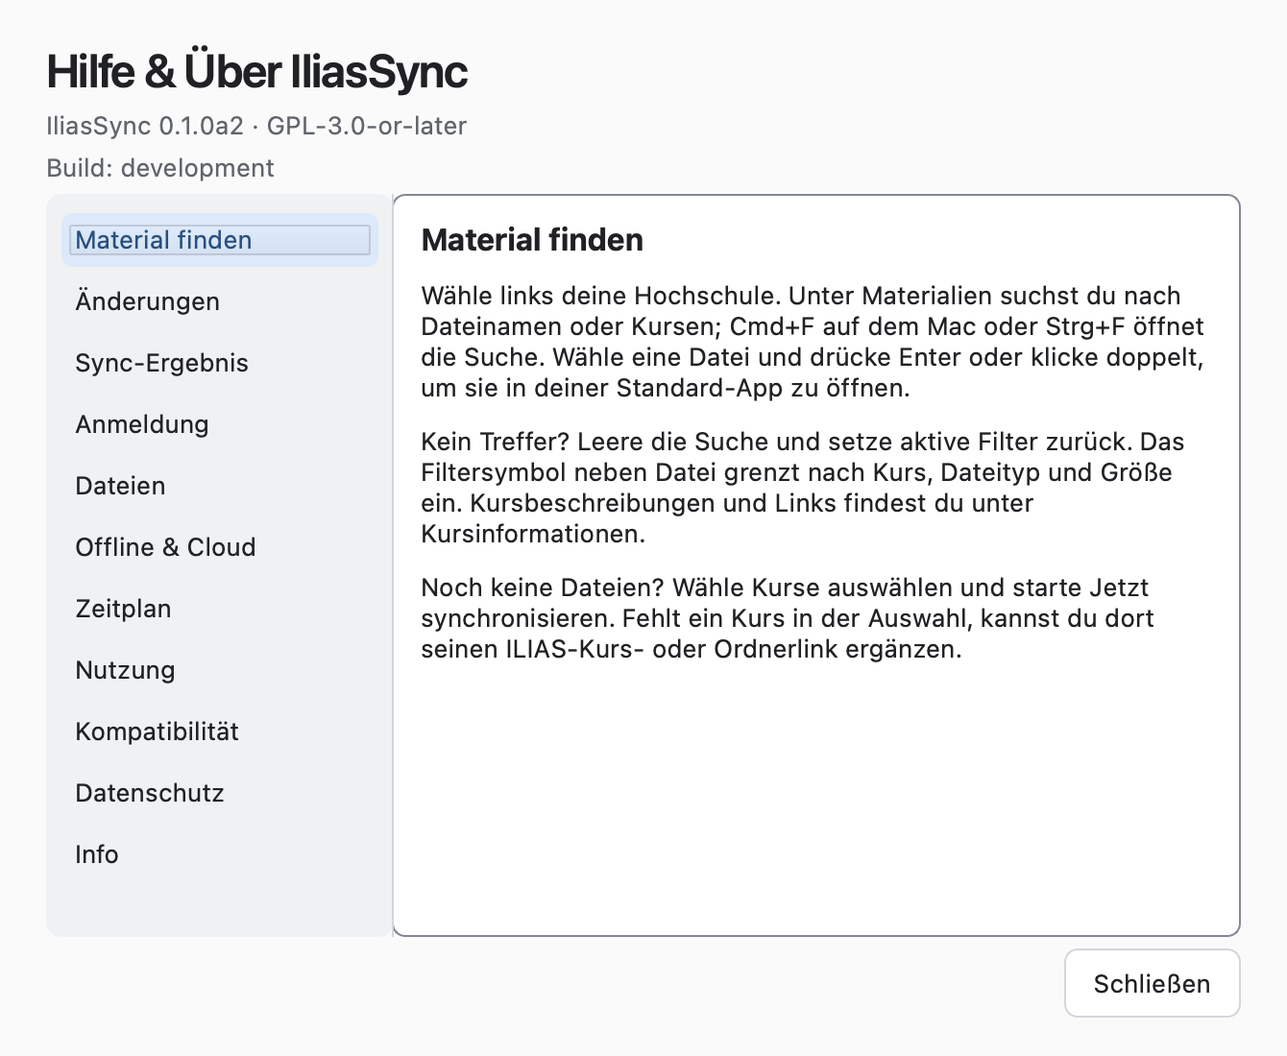
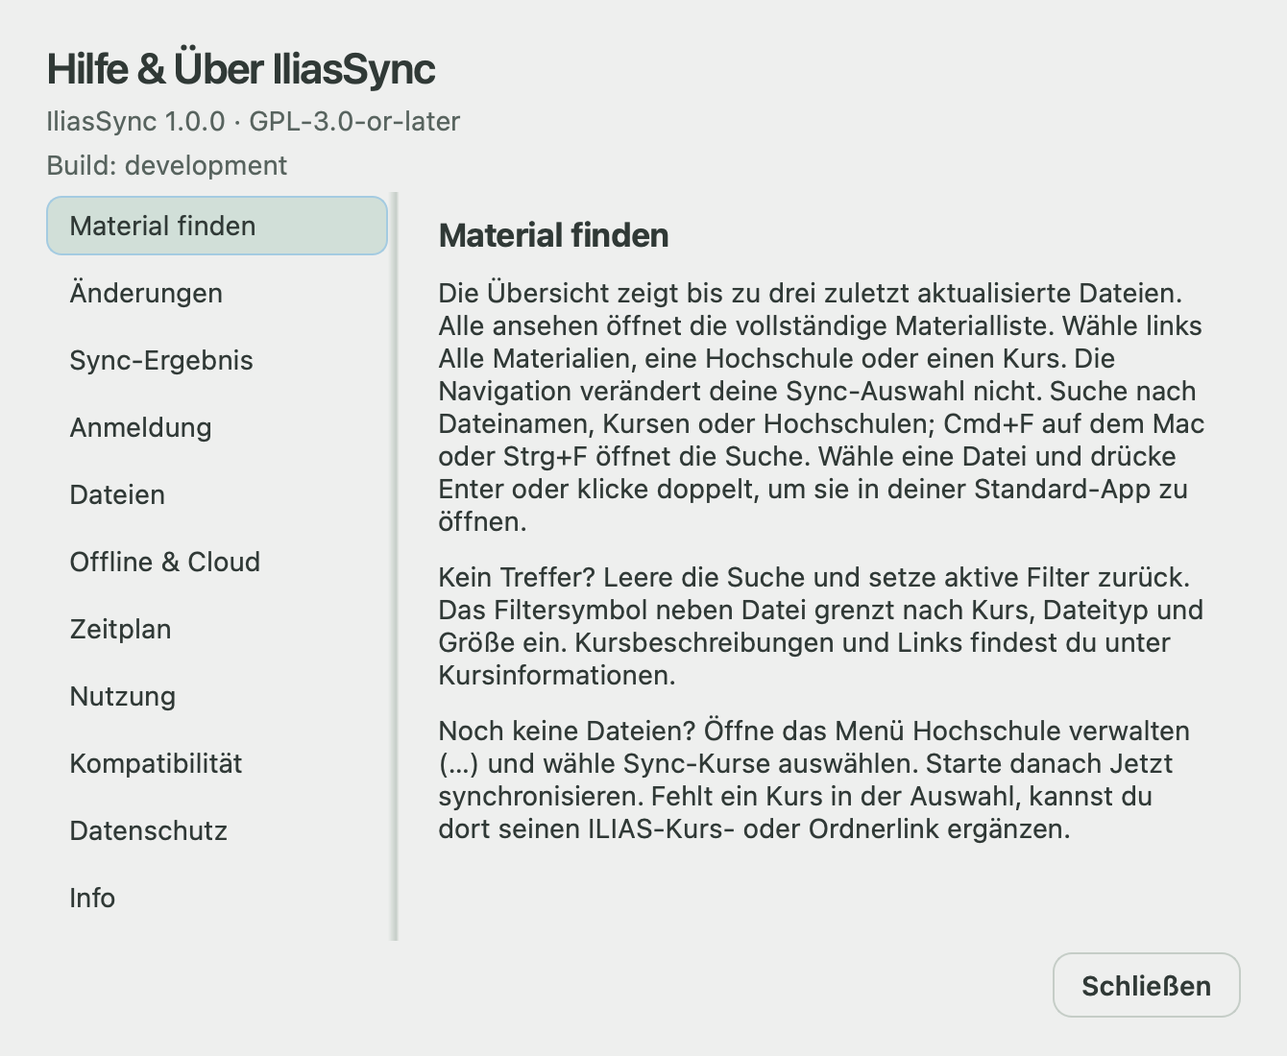
Refresh public project documentation and product screenshots for 1.0.0

Changed region(s): [[0.0306, 0.0309, 0.9485, 0.8964], [0.8261, 0.8964, 0.9485, 0.9582]]

diff --git a/scripts/capture_product.py b/scripts/capture_product.py
@@ -10,8 +10,9 @@ os.environ.setdefault("QT_SCALE_FACTOR", "2")
 
 def main():
     from PySide6.QtWidgets import QApplication
+    from PySide6.QtGui import QFontDatabase
     from ilias_sync.branding import app_icon
-    from ilias_sync.gui import MainWindow, FolderMappingDialog, SourceDialog, HelpDialog
+    from ilias_sync.gui import MainWindow, FolderMappingDialog, SourceDialog, HelpDialog, SettingsDialog
     from ilias_sync.storage import Settings, Source, data_dir, write_json, source_scope
     from ilias_sync.theme import Theme
     output = Path(__file__).resolve().parents[1] / "docs/images"
@@ -34,11 +35,13 @@ def main():
                  ("LDS/Übungen/Blatt 01.pdf", "crs-3/Übungen/Blatt 01.pdf", "crs-3", 180000)]
         write_json(state / "manifest.json", {"schema": 1, "files": {
             f"file:{index}": {"path": path, "logical": logical, "course_id": course,
-                              "target_stat": [size], "size": size}
+                              "target_stat": [size], "size": size, "changed_at": time.time() - index * 3600, "change": "added",
+                              "course_name": next(c["name"] for c in courses if c["id"] == course)}
             for index, (path, logical, course, size) in enumerate(names)}})
         write_json(state / "status.json", {"state": "Up to date", "scope": source_scope(source), "finished": time.time(), "result": {
-            "files": 5, "skipped": {}, "warnings": 0, "errors": 0, "unavailable": 0}})
+            "files": 5, "counts": {"added": 5}, "material_counts": {"added": 5}, "skipped": {}, "warnings": 0, "errors": 0, "unavailable": 0}})
         app = QApplication([])
+        app.setFont(QFontDatabase.systemFont(QFontDatabase.SystemFont.GeneralFont))
         app.setWindowIcon(app_icon())
         app.theme = Theme(app, "light")
         window = MainWindow()
@@ -53,6 +56,14 @@ def main():
         capture(window, "app-light.png")
         app.theme.set_mode("dark")
         capture(window, "app-dark.png")
+        window.workspace_tabs.setCurrentIndex(1)
+        capture(window, "materials.png")
+        window.workspace_tabs.setCurrentIndex(0)
+        settings.value.update(scheduled=True, schedule_mode="weekly", weekly_times={"0":["09:00","16:30"],"1":["13:00"],"2":["09:00","16:30"],"3":["13:00"],"4":["10:00"],"5":[],"6":[]})
+        schedule = SettingsDialog(settings)
+        schedule.tabs.setCurrentIndex(1)
+        capture(schedule, "schedule.png")
+        schedule.reject()
         app.theme.set_mode("light")
         mapping = FolderMappingDialog(source, settings)
         mapping.tree.expandAll()

diff --git a/README.md b/README.md
@@ -1,90 +1,99 @@
 <div align="center">
-  <img src="docs/images/icon.svg" width="80" height="80" alt="IliasSync">
+  <img src="docs/images/icon.svg" width="88" height="88" alt="IliasSync">
   <h1>IliasSync</h1>
-  <p><strong>Deine ILIAS-Kursdateien. Lokal gespeichert. Automatisch aktuell.</strong></p>
-  <p>Für macOS, Windows und Linux. Mit deinen Ordnern und deinem Zeitplan.</p>
+  <p><strong>Dein Studium. Deine Dateien. Automatisch auf deinem Computer.</strong></p>
+  <p>Eine ruhige Desktop-App für ILIAS-Materialien – auf macOS, Windows und Linux.</p>
+  <p>
+    <a href="https://github.com/schroedernils/ilias-sync/releases/latest">Herunterladen</a> ·
+    <a href="#schnellstart">Schnellstart</a> ·
+    <a href="docs/INSTALLATION.md">Installation</a> ·
+    <a href="https://github.com/schroedernils/ilias-sync/issues/new/choose">Hilfe & Feedback</a>
+  </p>
+  <p>
+    <a href="https://github.com/schroedernils/ilias-sync/releases/latest"><img src="https://img.shields.io/github/v/release/schroedernils/ilias-sync?color=497b96&label=Release" alt="Aktuelles Release"></a>
+    <a href="https://github.com/schroedernils/ilias-sync/actions/workflows/build.yml"><img src="https://github.com/schroedernils/ilias-sync/actions/workflows/build.yml/badge.svg" alt="Tests und native Pakete"></a>
+    <a href="LICENSE"><img src="https://img.shields.io/badge/Lizenz-GPL--3.0--or--later-59665f" alt="GPL-3.0-or-later"></a>
+  </p>
 </div>
 
 <picture>
   <source media="(prefers-color-scheme: dark)" srcset="docs/images/app-dark.png">
-  <img src="docs/images/app-light.png" alt="IliasSync zeigt lokal gespeicherte Skripte und Übungsblätter sowie die Auswahl von Kursen und Ordnern.">
+  <img src="docs/images/app-light.png" alt="IliasSync mit Hochschul- und Kursnavigation, drei zuletzt aktualisierten Materialien und gemeinsamem Synchronisierungsbereich.">
 </picture>
+<p align="center"><sub>Aktuelle Produktoberfläche mit synthetischen Beispieldaten. Keine privaten Konten oder Kursunterlagen.</sub></p>
 
-<p align="center"><sub>Synthetische Ansicht des lokalen Entwicklungsstands vom 28.10.2026; kein Screenshot des veröffentlichten Alpha-2-Pakets.</sub></p>
+IliasSync hält die Materialien deiner ausgewählten ILIAS-Kurse in deinen eigenen Ordnern bereit. Du findest neue Skripte und Übungsblätter direkt in der App oder öffnest sie wie gewohnt im Finder beziehungsweise Dateimanager. Die Synchronisierung läuft auf Wunsch nach deinem Wochenplan.
 
-<p align="center">
-  <a href="https://github.com/schroedernils/ilias-sync/releases/tag/v0.1.0-alpha.2">Downloads</a> ·
-  <a href="#in-drei-schritten-starten">Einrichtung</a> ·
-  <a href="https://github.com/schroedernils/ilias-sync/issues/new/choose">Problem melden</a> ·
-  <a href="docs/DEVELOPMENT.md">Entwicklung</a>
-</p>
+## Was du damit machen kannst
 
-> **Private Alpha:** Das Repository und seine Downloads benötigen derzeit eine GitHub-Freigabe. Die öffentliche Öffnung ist geplant. Diese Vorabversion ist noch nicht an jeder Hochschule geprüft.
+| | |
+| --- | --- |
+| **Materialien schnell finden** | Hochschulen und Kurse in der Sidebar, drei aktuelle Dateien in der Übersicht, durchsuchbare Gesamtliste, Filter und Sortierung. |
+| **Mehrere Hochschulen verbinden** | Materialien gemeinsam, pro Hochschule oder pro Kurs ansehen. Deine Ansicht verändert die ausgewählten Sync-Kurse nicht. |
+| **Eigene Ordner verwenden** | Kurse, Unterordner und einzelne Dateien zuordnen; Ordnernamen anpassen. Technische Kurs-IDs sind standardmäßig ausgeblendet. |
+| **Deinen Wochenplan einstellen** | Intervalle oder unabhängige Uhrzeiten für Montag bis Sonntag. Zeiten auf einzelne Tage, Werktage oder die ganze Woche übertragen. |
+| **Läufe steuern** | Jetzt synchronisieren, pausieren, fortsetzen oder den aktuellen Lauf beenden. Der Zeitplan bleibt beim Beenden erhalten. |
+| **Probleme gezielt lösen** | Klare nächste Schritte bei Anmeldung, Netzwerk oder fehlenden Dateien; detaillierte Berichte und optionale Systembenachrichtigungen für neue Probleme. |
+| **Dateien behalten** | Keine automatische Löschung lokal vorhandener Materialien, Versionskopien und Schutz erkannter lokaler Änderungen. |
+| **Lokal arbeiten** | Kein IliasSync-Konto, kein eigener Cloud-Dienst und keine App-Telemetrie. Passwörter liegen im System-Passwortspeicher. |
 
-## Was IliasSync für dich übernimmt
-
-- **Dateien herunterladen:** Skripte, Folien und Übungsblätter aus deinen ausgewählten ILIAS-Kursen lokal ablegen und Änderungen nachladen.
-- **Ordnung behalten:** Eigene Zielordner für ganze Kurse, Unterordner oder einzelne Dateien. Auch ein Google-Drive- oder OneDrive-Ordner ist möglich.
-- **Nach Zeitplan arbeiten:** Automatische Läufe über das Betriebssystem, standardmäßig alle sechs Stunden. Im Akkubetrieb pausiert. Zwischen den Läufen bleibt kein Sync-Prozess aktiv.
-- **Kontrolle behalten:** Einen Lauf pausieren, fortsetzen oder beenden. Bereits gespeicherte Dateien bleiben erhalten.
-- **Lokal bleiben:** Kein zusätzliches IliasSync-Konto und keine App-Telemetrie. Passwörter liegen im Passwortspeicher deines Systems.
-
-Die Oberfläche startet auf Deutsch. Unter **Einstellungen → Allgemein** kannst du zu Englisch wechseln und Hell, Dunkel oder **Wie System** wählen.
-
-## Entwicklungsstand und veröffentlichtes Paket
-
-Die hier beschriebenen neuen Bibliotheks-, Wiederherstellungs-, Ordner-, Filter-, Tageszeitplan- und Berichtsabläufe gehören zum lokalen Entwicklungsstand. Der Downloadlink führt weiterhin zum veröffentlichten Alpha 2 vom 22.10.2026. Diese Arbeit wurde nicht gepusht oder als Release veröffentlicht. Neue lokale Pakete zeigen unter **Hilfe & Über IliasSync** eine Build-Kennung aus Git-Revision und Quellfingerprint; dieselbe Kennung steht im Offline-Selbsttest und bei neu aufgezeichneten Versuchen. Die Versionsnummer `0.1.0a2` allein unterscheidet diese Pakete nicht. [Prüfnachweise](docs/VERIFICATION.md).
+Deutsch und Englisch · Hell, Dunkel und Systemdarstellung · Tastaturbedienung und Kontextmenüs
 
 ## Herunterladen
 
-Alle Pakete stehen im [aktuellen Alpha-Release](https://github.com/schroedernils/ilias-sync/releases/tag/v0.1.0-alpha.2). Prüfe die Datei gegen `SHA256SUMS` im selben Release. Python und Qt sind enthalten; Java wird nicht benötigt.
+Python und Qt sind in den Paketen enthalten. Lade das passende Paket aus dem [aktuellen Release](https://github.com/schroedernils/ilias-sync/releases/latest) und vergleiche es mit `SHA256SUMS` im selben Release.
 
-| System | Paket | Installation |
+| Computer | Download | Start |
 | --- | --- | --- |
-| **macOS 13+** | DMG für Apple Silicon oder Intel | Öffnen, IliasSync nach Programme ziehen und starten. |
-| **Windows 10/11 x64** | ZIP | Vollständig in einen festen Ordner entpacken, `IliasSync.exe` starten. `_internal` muss daneben bleiben. |
-| **Linux x64** | tar.gz; glibc 2.35+ | Entpacken und `./IliasSync/IliasSync` starten. Optional `install-desktop.sh` für einen Menüeintrag ausführen. |
+| **Mac mit Apple Silicon** | `IliasSync-1.0.0-macOS-arm64.dmg` | DMG öffnen, App nach Programme ziehen. |
+| **Mac mit Intel** | `IliasSync-1.0.0-macOS-x64.dmg` | DMG öffnen, App nach Programme ziehen. |
+| **Windows 10/11, x64** | `IliasSync-1.0.0-Windows-x64.zip` | Komplett entpacken und `IliasSync.exe` starten. |
+| **Linux, x64** | `IliasSync-1.0.0-Linux-x64.tar.gz` | Entpacken und `./IliasSync/IliasSync` starten. |
 
-**Signaturstatus:** macOS ist ad-hoc signiert und nicht notarisiert. Windows hat keine Authenticode-Signatur. Es gibt noch keinen automatischen Updater. Details zu Linux-Bibliotheken, System-Passwortspeichern und Hintergrundläufen: [Installation](docs/INSTALLATION.md).
+macOS 13+; Linux mit glibc 2.35+ und grafischer Sitzung. Mobile Betriebssysteme und native Windows/Linux-ARM-Pakete gehören nicht zu diesem Release. **Distribution:** macOS-Pakete sind ad-hoc signiert, aber nicht notarisiert; Windows-Pakete haben keine Authenticode-Signatur. Ein automatischer Updater ist noch nicht enthalten. [Systemanforderungen, Passwortspeicher und Prüfsummen →](docs/INSTALLATION.md)
 
-## In drei Schritten starten
+## Schnellstart
 
-1. **ILIAS hinzufügen:** Die HTTPS-Startadresse deiner Hochschule eintragen und prüfen.
-2. **Anmelden:** Hochschulzugang, unterstütztes SSO oder eine eigene Browsersitzung verwenden. Einen festen Zielordner auswählen.
-3. **Kurse wählen und synchronisieren:** Alle beigetretenen Kurse oder eine Auswahl. Bei Bedarf den Zeitplan unter **Einstellungen → Zeitplan** aktivieren.
+1. **ILIAS hinzufügen:** HTTPS-Adresse deiner Hochschule eintragen und prüfen.
+2. **Anmelden und Ziel wählen:** Hochschulzugang, unterstütztes Shibboleth-SSO oder importierte Browsersitzung verwenden und einen eigenen Materialordner wählen.
+3. **Kurse auswählen:** Gewünschte Kurse festlegen und **Jetzt synchronisieren** drücken. Unter **Einstellungen → Zeitplan** kannst du automatische Läufe aktivieren.
 
-Du kannst mehrere ILIAS-Quellen hinzufügen. Fahre links über eine Quelle, um den Stift zum **Bearbeiten** einzublenden, oder nutze Rechtsklick → **Bearbeiten**. Mit der Tastatur geht auch F2. Rechts neben **Kurse auswählen** stehen **Ordner zuordnen** und **Ordner öffnen** als Symbole mit Tooltips. **Einstellungen** öffnet Sprache, Erscheinungsbild und Zeitplan.
+Danach ist die Übersicht dein Einstieg. **Alle ansehen** öffnet die komplette Materialliste. Doppelklick oder Return öffnet eine Datei; über das Kontextmenü erreichst du ihren Ordner. Die Suche berücksichtigt die aktuelle Hochschule oder den Kurs. Das **…**-Menü der Hochschule enthält Kursauswahl, Ordnerzuordnung und Profilbearbeitung.
 
-Bei MFA oder einer eigenen Anmeldeseite kann ein Netscape-`cookies.txt`-Export nötig sein. Die App importiert nur Cookies für den eingestellten ILIAS-Host und liest dein Browserprofil nicht selbst. Eine Sitzung kann ablaufen; dann ist ein neuer Import nötig. Behandle solche Exporte wie ein Passwort. [Mehr zur Anmeldung](docs/INSTALLATION.md#anmeldung).
+<details>
+<summary><strong>Wochenplan und Benachrichtigungen</strong></summary>
 
-## Deine Dateien und Ordner
+<img src="docs/images/schedule.png" width="640" alt="Wochenplan mit eigenen Zeiten für jeden Wochentag und Zeiten-kopieren-Button neben der Akkuoption.">
 
-<img src="docs/images/folders.png" width="800" alt="Ordnerzuordnung mit Kursen, Unterordnern und einzelnen Dateien.">
+Ein leerer Tag bleibt frei. **Zeiten kopieren** übernimmt einen bestehenden Tag auf einen anderen Tag, Montag bis Freitag oder alle Tage. Erst **Speichern** übernimmt Änderungen. Der Computer muss wach, angemeldet und online sein; verpasste Ausführungen regelt das Betriebssystem. Zwischen den Läufen bleibt kein Sync-Prozess aktiv.
 
-Die spezifischste Ordnerregel gewinnt: eine Dateiregel vor einer Unterordnerregel, eine Unterordnerregel vor einer Kursregel. Neue Ziele gelten ab dem nächsten Lauf; bisherige Kopien bleiben erhalten. Semester und Abkürzungen werden nicht aus beliebigen Kursnamen erraten.
+Benachrichtigungen sind optional. Wiederholungen desselben Problems lösen keine neue Systemmeldung aus. Eine ausgeblendete Meldung bleibt in Details nachvollziehbar. Die Erlaubnis für Systemmeldungen wird nur nach deiner ausdrücklichen Aktivierung angefragt.
+</details>
 
-Verschwindet ein Inhalt aus ILIAS, löscht IliasSync deine lokale Kopie nicht automatisch. Ältere Dateiinhalte werden unter `Versions/` aufbewahrt. Bei erkannten lokalen Änderungen bekommt die neue Serverversion einen eigenen Konfliktnamen. [Dateierhalt und Wiederherstellung](docs/RECOVERY.md).
+<details>
+<summary><strong>Ordner, lokale Änderungen und Cloud-Speicher</strong></summary>
 
-Ein Cloud-Zielordner ist möglich. **Den Upload übernimmt dein Cloud-Client; IliasSync bestätigt ihn nicht.** Sichere App-Daten und Zielordner. Eine Cloud-Synchronisierung allein ist kein geprüfter Wiederherstellungsplan.
+<img src="docs/images/folders.png" width="800" alt="Ordnerzuordnung für Kurse, Unterordner und einzelne Dateien.">
 
-## Was du vor der Nutzung wissen solltest
+Die spezifischste Zuordnung gewinnt: Datei vor Unterordner vor Kurs. Neue Ziele gelten ab dem nächsten Lauf; bisherige Kopien bleiben erhalten. Ältere Dateiversionen liegen unter `Versions/`. Bei erkannten lokalen Änderungen wird die neue Serverversion getrennt gespeichert. Für aktive Annotationen empfehlen sich eigene Arbeitskopien.
 
-**Kompatibilität:** ILIAS-Versionen, Hochschuldesigns, Plugins und SSO/MFA unterscheiden sich. Eine eigene Adresse ist konfigurierbar, aber nicht jede Installation funktioniert ohne Anpassung. Foren, Tests, Umfragen, SCORM und manche externen Inhalte sind kein vollständiges Offline-Abbild. Übersprungene und nicht verfügbare Inhalte werden im Ergebnis ausgewiesen.
+Ein Google-Drive-, OneDrive- oder anderer Cloud-Ordner ist als Ziel möglich. Den Upload übernimmt dein Cloud-Client; IliasSync kann dessen Abschluss nicht bestätigen. [Dateierhalt und Wiederherstellung →](docs/RECOVERY.md)
+</details>
 
-**Schnelle Folgeläufe:** Ein lokaler Inhaltsindex vermeidet wiederholtes HTML-Parsing. Bekannte Inhaltsseiten werden bei jedem Lauf frisch geprüft, mit bis zu 64 vorbereiteten Seitenprüfungen. Eine gemeinsame HTTP-Grenze erlaubt insgesamt höchstens acht Anfragen pro Host, einschließlich Downloads, Anmeldung und Weiterleitungen; acht PFERD-Arbeitsslots bearbeiten neue Inhalte. Bereits leer bestätigte Termine werden bei unterstützten Kursübersichten über die aktuellen Materialzähler geprüft. Es gibt keine künstliche Pause nach Aufgaben. Automatische Läufe sind frühestens stündlich möglich. Die Vorgaben deiner Hochschule gehen vor. [Messung und Grenzen](docs/SYNC_PERFORMANCE.md).
+## Kompatibilität und Datenschutz
 
-**Nutzungsrechte:** IliasSync ist unabhängig und kein offizielles Angebot einer Hochschule oder des ILIAS-Projekts. Nutze nur berechtigte Zugänge und beachte Hochschulregeln sowie Rechte an Kursmaterialien, besonders bei Cloud-Ablage und Weitergabe. Die Softwarelizenz erteilt keine Rechte an heruntergeladenen Inhalten.
+ILIAS-Versionen, Hochschuldesigns, Plugins und Anmeldeseiten unterscheiden sich. Nicht jede Hochschule oder jedes SSO ist bereits verifiziert. Bei MFA kann ein eigener Netscape-`cookies.txt`-Export nötig sein; die App liest dein Browserprofil nicht selbst. Behandle solche Exporte wie Passwörter. [Anmeldewege →](docs/INSTALLATION.md#anmeldung)
 
-[Nutzung, Plattformen & Quellen](docs/USAGE.md) · [Was tatsächlich geprüft wurde](docs/VERIFICATION.md) · [Sicherheit](SECURITY.md)
+IliasSync synchronisiert unterstützte Kursdateien; Foren, Tests, Umfragen, SCORM und bestimmte externe Inhalte sind kein vollständiges Offline-Abbild. Nicht verfügbare oder nicht unterstützte Inhalte werden im Bericht ausgewiesen. Folgeprüfungen nutzen lokale Indizes, prüfen bekannte Inhaltsseiten erneut und respektieren serverseitige Wartezeiten. Die Dauer hängt von Hochschule, Verbindung und neuen Downloads ab. [Synchronisierung →](docs/SYNC_PERFORMANCE.md)
 
-## Feedback und Beiträge
+Das Projekt ist unabhängig von ILIAS und deiner Hochschule. Nutze nur berechtigte Zugänge und beachte die Regeln und Nutzungsrechte deiner Kursmaterialien. [Sicherheit](SECURITY.md) · [Lizenzen](THIRD_PARTY_NOTICES.md) · [Prüfgrenzen](docs/VERIFICATION.md)
 
-Eine Hochschule funktioniert nicht? [Erstelle einen Fehlerbericht](https://github.com/schroedernils/ilias-sync/issues/new/choose) mit Betriebssystem, App-Version, ILIAS-Version und den Schritten bis zum Fehler. **Keine Passwörter, Cookies, privaten Kursunterlagen oder ungeschwärzten Kontodaten anhängen.**
+## Mitmachen
 
-Beiträge zu Fehlerbehebungen, Übersetzungen und synthetischen Testfällen sind willkommen. Lies zuerst [CONTRIBUTING.md](CONTRIBUTING.md). Technischer Einstieg: [Entwicklung](docs/DEVELOPMENT.md) und [Architektur](docs/ARCHITECTURE.md).
+[Fehler melden](https://github.com/schroedernils/ilias-sync/issues/new/choose) · [Feature vorschlagen](https://github.com/schroedernils/ilias-sync/issues/new/choose) · [Entwicklung](docs/DEVELOPMENT.md) · [Beitragen](CONTRIBUTING.md) · [Architektur](docs/ARCHITECTURE.md)
 
-## Lizenz und Grundlage
+Bitte Betriebssystem, App-Version beziehungsweise Build-Kennung und reproduzierbare Schritte angeben. Keine Passwörter, Cookies, privaten Kursunterlagen oder ungeschwärzten Kontodaten veröffentlichen. Sicherheitsprobleme bitte gemäß [SECURITY.md](SECURITY.md) privat melden.
 
-IliasSync steht unter [GPL-3.0-or-later](LICENSE). Die Downloadbibliothek [PFERD](https://github.com/Garmelon/PFERD) steht unter MIT. Qt und weitere Bibliotheken behalten ihre jeweiligen Lizenzen; [alle Hinweise](THIRD_PARTY_NOTICES.md) liegen auch den Paketen bei.
+## Open Source
 
-[Ilias Downloader Tool](https://iliasdownloadertool.de/) und [ILIAS-Sync2Folder](https://viperinius.github.io/ILIAS-Sync2Folder/) dienen als Kontext für Dateiorganisation und Kompatibilitätsgrenzen. Ihr Code und ihre Grafiken werden nicht eingebunden. [Einordnung der Referenzen](docs/USAGE.md#was-wir-aus-anderen-projekten-lernen).
+[GPL-3.0-or-later](LICENSE). Downloads basieren auf [PFERD](https://github.com/Garmelon/PFERD) (MIT); Qt und weitere Bibliotheken behalten ihre jeweiligen Lizenzen. Lizenztexte und Hinweise werden mit den Paketen ausgeliefert. Die App enthält keine Werbung und keinen zusätzlichen Online-Account.

diff --git a/SECURITY.md b/SECURITY.md
@@ -6,6 +6,6 @@ HTTPS certificate verification is required; there is no ignore-certificate switc
 
 No telemetry, cloud backend, remote code execution, automatic update download, or service-role key is part of the app. PFERD follows ILIAS content and supported media URLs as needed; external linked media may reside on a university CDN. Internal metadata and cookies remain outside the download directory. File paths are sanitized for common Windows restrictions and checked against traversal/symlinks. Download destinations must not overlap source destinations or app state.
 
-Local files that have changed since publication are preserved; remote changes get a conflict copy. Local edits concurrent with an atomic replacement have a small race window. Use separate copies for active annotation. Previously staged, valid files are retained on partial failures, but this preview is not a transaction across an entire course. Missing or corrupt version archives stop replacement instead of overwriting the current file.
+Local files that have changed since publication are preserved; remote changes get a conflict copy. Local edits concurrent with an atomic replacement have a small race window. Use separate copies for active annotation. Previously staged, valid files are retained on partial failures, but synchronization is not a transaction across an entire course. Missing or corrupt version archives stop replacement instead of overwriting the current file.
 
-Report vulnerabilities privately to the repository owner using GitHub's private reporting feature if available. Otherwise request a private contact without including exploit credentials. Do not open an issue containing account secrets. This preview has no security audit or vendor-signed distribution claim.
+Report vulnerabilities privately to the repository owner using GitHub's private reporting feature if available. Otherwise request a private contact without including exploit credentials. Do not open an issue containing account secrets. This project has no security audit or vendor-signed distribution claim.

diff --git a/docs/INSTALLATION.md b/docs/INSTALLATION.md
@@ -1,13 +1,12 @@
 # Installation und Anmeldung
 
 Lade nur Pakete aus den [Projekt-Releases](https://github.com/schroedernils/ilias-sync/releases)
-und prüfe die SHA-256-Prüfsumme. Während der privaten Alpha benötigen auch die
-Downloads Repository-Zugriff. Ein fehlender Zugriff kann als GitHub-404 erscheinen.
+und prüfe die SHA-256-Prüfsumme. Die Pakete enthalten Python und Qt; eine separate Installation ist nicht nötig.
 
 ## macOS
 
 Ab macOS 13, separate Pakete für Apple Silicon und Intel. DMG öffnen, App nach
-Programme ziehen. Die Alpha ist ad-hoc signiert, nicht Developer-ID-signiert oder
+Programme ziehen. Das macOS-Paket ist ad-hoc signiert, nicht Developer-ID-signiert oder
 notarisiert. macOS kann eine explizite Freigabe unter Systemeinstellungen →
 Datenschutz & Sicherheit verlangen. Prüfe Herkunft und Prüfsumme, bevor du einer
 App vertraust; deaktivere keine systemweiten Schutzfunktionen.
@@ -15,7 +14,7 @@ App vertraust; deaktivere keine systemweiten Schutzfunktionen.
 ## Windows
 
 Windows 10/11 x64. ZIP vollständig in einen dauerhaften Ordner entpacken.
-`IliasSync.exe` und `_internal` zusammen lassen. Die Alpha hat keine
+`IliasSync.exe` und `_internal` zusammen lassen. Das Windows-Paket hat keine
 Authenticode-Signatur; Windows kann eine Reputationswarnung anzeigen.
 
 ## Linux

diff --git a/docs/DEVELOPMENT.md b/docs/DEVELOPMENT.md
@@ -1,6 +1,6 @@
 # Entwicklung
 
-Python 3.12 oder 3.13. Betriebssystemabhängige Pakete müssen auf dem Zielsystem gebaut werden.
+Python 3.12 ist die geprüfte Build-Umgebung; der Quellcode unterstützt außerdem Python 3.13. Betriebssystemabhängige Pakete müssen auf dem Zielsystem gebaut werden.
 
 ```sh
 python3.12 -m venv .venv
@@ -33,3 +33,7 @@ Die CI prüft macOS arm64/Intel, Windows x64 und Linux x64. Die Pakete führen e
 Offline-Test mit ihrer eingefrorenen Runtime aus. Qt bleibt dynamisch geladen und
 austauschbar. Siehe [Lizenzhinweise](LICENSES.md), [Architektur](ARCHITECTURE.md)
 und [Prüfgrenzen](VERIFICATION.md).
+
+## Release erstellen
+
+Version in `pyproject.toml` und `src/ilias_sync/__init__.py` gemeinsam erhöhen, Release-Notizen unter `docs/releases/<version>.md` ergänzen und alle Änderungen prüfen. Der Workflow **Test and package** baut vier native Pakete. Erst nach seinem erfolgreichen Abschluss wird **Publish verified release** mit dessen Run-ID gestartet. Der Veröffentlichungsworkflow prüft Quelle, Version, alle vier Jobs und jede Prüfsumme. Kein Paket wird lokal für ein fremdes Betriebssystem vorgetäuscht.

diff --git a/CONTRIBUTING.md b/CONTRIBUTING.md
@@ -1,8 +1,8 @@
 # Mitwirken
 
 Danke für Fehlerberichte, Übersetzungen, Dokumentation und kleine, gezielte Fixes.
-Das Repository ist zunächst privat. Die Regeln gelten bereits für die Alpha und
-später für öffentliche Beiträge.
+Beiträge werden über Issues und Pull Requests koordiniert. Bitte halte Änderungen
+klein und nachvollziehbar.
 
 ## Einen Fehler melden
 
